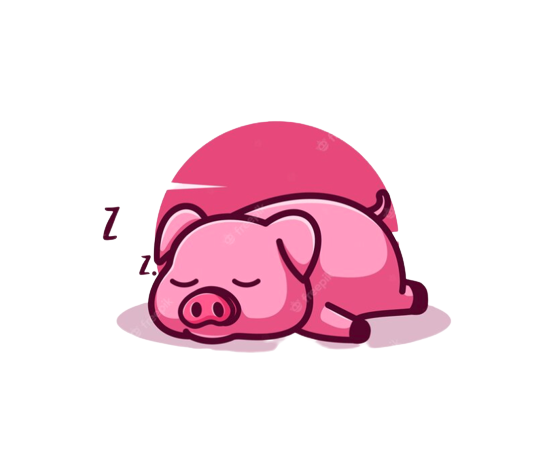
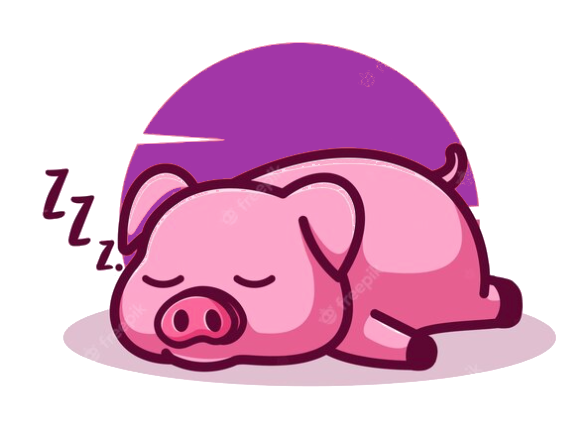
:)

diff --git a/lib/ui/backup_contacts_page.dart b/lib/ui/backup_contacts_page.dart
@@ -1,4 +1,3 @@
-import 'dart:developer';
 
 import 'package:flutter/material.dart';
 import 'package:meus_contatos/model/other_contacts_model.dart';
@@ -28,66 +27,82 @@ class _BackupContactsPageState extends State<BackupContactsPage> {
       initialData: false,
       builder: (context, snapshot) {
         return Scaffold(
-          appBar: AppBar(
-            title: Text("Baixar backup"),
-          ),
+          appBar: appBarOtherContacts(),
           body: Padding(
             padding: EdgeInsets.all(16),
-            child: snapshot.data! ? downloadContactsOk() : downloadContacts(),
+            child: snapshot.data! ? downloadContactsFinished() : downloadContactsPending(),
           ),
-          floatingActionButton: floatActionButton(),
+          floatingActionButton: floatActionButton(snapshot.data!),
         );
       }
     );
   }
 
-  Widget downloadContacts() {
+  AppBar appBarOtherContacts() {
+    return AppBar(
+      title: Column(
+        crossAxisAlignment: CrossAxisAlignment.start,
+        children: [
+          _controller.listJson.isEmpty ? Text("Baixar backup") : Text("Adicionar"),
+          const SizedBox(height: 2.0,),
+          _controller.listJson.isEmpty ?  SizedBox(height: 2.0) : Text("${_controller.listJson.length} contatos registrados ", style: TextStyle(fontSize: 14))
+        ],
+      ),
+    );
+  }
+
+  Widget downloadContactsPending() {
     return Center(
       child: Column(
         mainAxisAlignment: MainAxisAlignment.center,
         children: [
-          Image.asset("assets/porco.png", width: 300, height: 300),
+          Image.asset("assets/porco.png", width: 200, height: 200),
+          const SizedBox(height: 8.0),
+          Text("Z z z ..." ,style: TextStyle(fontSize: 25)),
+          const SizedBox(height: 8.0),
+          const Text("Baixe seus contatos da nuvem!", textAlign: TextAlign.center, style: TextStyle(fontSize: 18)),
         ],
       ),
     );
   }
 
   Widget cardContactJson(List<OtherContact> contactJson, int index, OtherContact otherContact) {
-    return Container(
-      margin: const EdgeInsets.all(6.0),
-      padding: const EdgeInsets.all(12.0),
-      child: Row(
-        children: [
-          const CircleAvatar(backgroundColor: Colors.purple, child: Icon(Icons.person)),
-          SizedBox(width: 2.0),
-          const SizedBox(width: 8),
-          Expanded(
-            child: Column(
-              crossAxisAlignment: CrossAxisAlignment.start,
-              children: [
-                Text('${otherContact.name}', style: const TextStyle(color: Colors.black, fontSize: 20), overflow: TextOverflow.ellipsis, maxLines: 1),
-                const SizedBox(height: 2.0),
-                Text('${otherContact.phone}', style: const TextStyle(color: Colors.black)),
-              ],
+    return InkWell(
+      onTap: () {},
+      child: Container(
+        margin: const EdgeInsets.all(6.0),
+        padding: const EdgeInsets.all(12.0),
+        child: Row(
+          children: [
+            const CircleAvatar(backgroundColor: Colors.purple, child: Icon(Icons.person)),
+            SizedBox(width: 2.0),
+            const SizedBox(width: 8),
+            Expanded(
+              child: Column(
+                crossAxisAlignment: CrossAxisAlignment.start,
+                children: [
+                  Text('${otherContact.name}', style: const TextStyle(color: Colors.black, fontSize: 20), overflow: TextOverflow.ellipsis, maxLines: 1),
+                  const SizedBox(height: 2.0),
+                  Text('${otherContact.phone}', style: const TextStyle(color: Colors.black)),
+                ],
+              ),
             ),
-          ),
-        ],
+          ],
+        ),
       ),
     );
   }
 
-  Widget downloadContactsOk() {
+  Widget downloadContactsFinished() {
     return Center(
       child: StreamBuilder<List<OtherContact>>(
-        stream: _controller.streamListOtherContacts.stream,
+        stream: _controller.behaviorListOtherContacts.stream,
         builder: (context, snapshot) {
-          log("-=-=-=-=-");
-          log("length: ${snapshot.data?.length} | ${DateTime.now()}");
-          log("-=-=-=-=-");
           if(snapshot.data == null) {
-            return Text("OK");
+            return CircularProgressIndicator(color: Colors.purple);
           }
           return ListView.separated(
+            padding: const EdgeInsets.only(bottom: 75.0),
             itemBuilder: (BuildContext context, int index) {
               return cardContactJson(snapshot.data!, index, snapshot.data![index]);
             }, 
@@ -99,11 +114,11 @@ class _BackupContactsPageState extends State<BackupContactsPage> {
     );
   }
 
-  Widget floatActionButton() {
+  Widget floatActionButton(bool downloadFinished) {
     return FloatingActionButton(
       backgroundColor: Colors.purple,
       onPressed: () => _controller.consumeDataJson(),
-      child: Icon(Icons.cloud_download),
+      child: downloadFinished == true ? Icon(Icons.check) : Icon(Icons.cloud_download),
     );
   }
 

diff --git a/lib/ui/contacts_list_page.dart b/lib/ui/contacts_list_page.dart
@@ -1,5 +1,3 @@
-
-
 import 'package:flutter/material.dart';
 import 'package:flutter_slidable/flutter_slidable.dart';
 import 'package:meus_contatos/ui/add_contact_page.dart';
@@ -42,7 +40,7 @@ class _ContactsListPageState extends State<ContactsListPage> {
             return _controller.onLongPress(snapshot.data!);
           },
           child: Scaffold(
-            drawer: drawerMyContacts(),
+            drawer: drawerMyContacts(snapshot.data!),
             backgroundColor: Colors.grey[100],
             appBar: appBarMyContacts(snapshot.data!),
             body: Padding(
@@ -85,16 +83,19 @@ class _ContactsListPageState extends State<ContactsListPage> {
     );
   }
 
-  Widget drawerMyContacts(){
+  Widget drawerMyContacts(List<Contact> contacts){
     return Drawer(
       shadowColor: Colors.purple,
       child: ListView(
           children: [
-            Container(
-              color: Colors.purple,
-              height: 56,
-              width: double.maxFinite,
-              child: Row(mainAxisAlignment: MainAxisAlignment.start,children:[ Image.asset("assets/logosemfundo.png"), Text("Meus Contatos",style: TextStyle(color: Colors.white, fontSize: 20))]),
+            InkWell(
+              onTap: () => Navigator.pop(context),
+              child: Container(
+                color: Colors.purple,
+                height: 56,
+                width: double.maxFinite,
+                child: Row(mainAxisAlignment: MainAxisAlignment.start,children:[ Image.asset("assets/logosemfundo.png"), Text("Meus Contatos",style: TextStyle(color: Colors.white, fontSize: 20))]),
+              ),
             ),
             ListTile(
               leading: Icon(Icons.cloud_download, color: Colors.purple),

diff --git a/lib/controller/backup_contacts_controller.dart b/lib/controller/backup_contacts_controller.dart
@@ -1,13 +1,14 @@
 
 import 'dart:async';
-import 'dart:developer';
 import 'package:http/http.dart' as http;
 import 'dart:convert';
 import 'package:meus_contatos/model/other_contacts_model.dart';
+import 'package:rxdart/rxdart.dart';
 
 class BackupContactsController {
   StreamController<bool> streamDownloadFinished = StreamController<bool>.broadcast();
-  StreamController<List<OtherContact>> streamListOtherContacts = StreamController<List<OtherContact>>.broadcast();
+  BehaviorSubject<List<OtherContact>> behaviorListOtherContacts = BehaviorSubject<List<OtherContact>>();
+  List<OtherContact> listJson = [];
   Uri uri = Uri.https("jsonplaceholder.typicode.com" , "/users");
 
   void disposeStream(){
@@ -17,13 +18,11 @@ class BackupContactsController {
 
   Future<List<dynamic>> consumeDataJson() async {
     final future = await http.get(uri);
-    List<OtherContact> listJson = (jsonDecode(future.body)as List).map((e) {
+    listJson = (jsonDecode(future.body)as List).map((e) {
       return OtherContact.fromJson(e);
-    }).toList();    
-    log("data inicio ${DateTime.now()}");
-    streamListOtherContacts.sink.add(listJson);
+    }).toList();
+    behaviorListOtherContacts.sink.add(listJson);
     streamDownloadFinished.sink.add(true);
-    log("data final ${DateTime.now()}");
     return jsonDecode(future.body);
   }
 }
